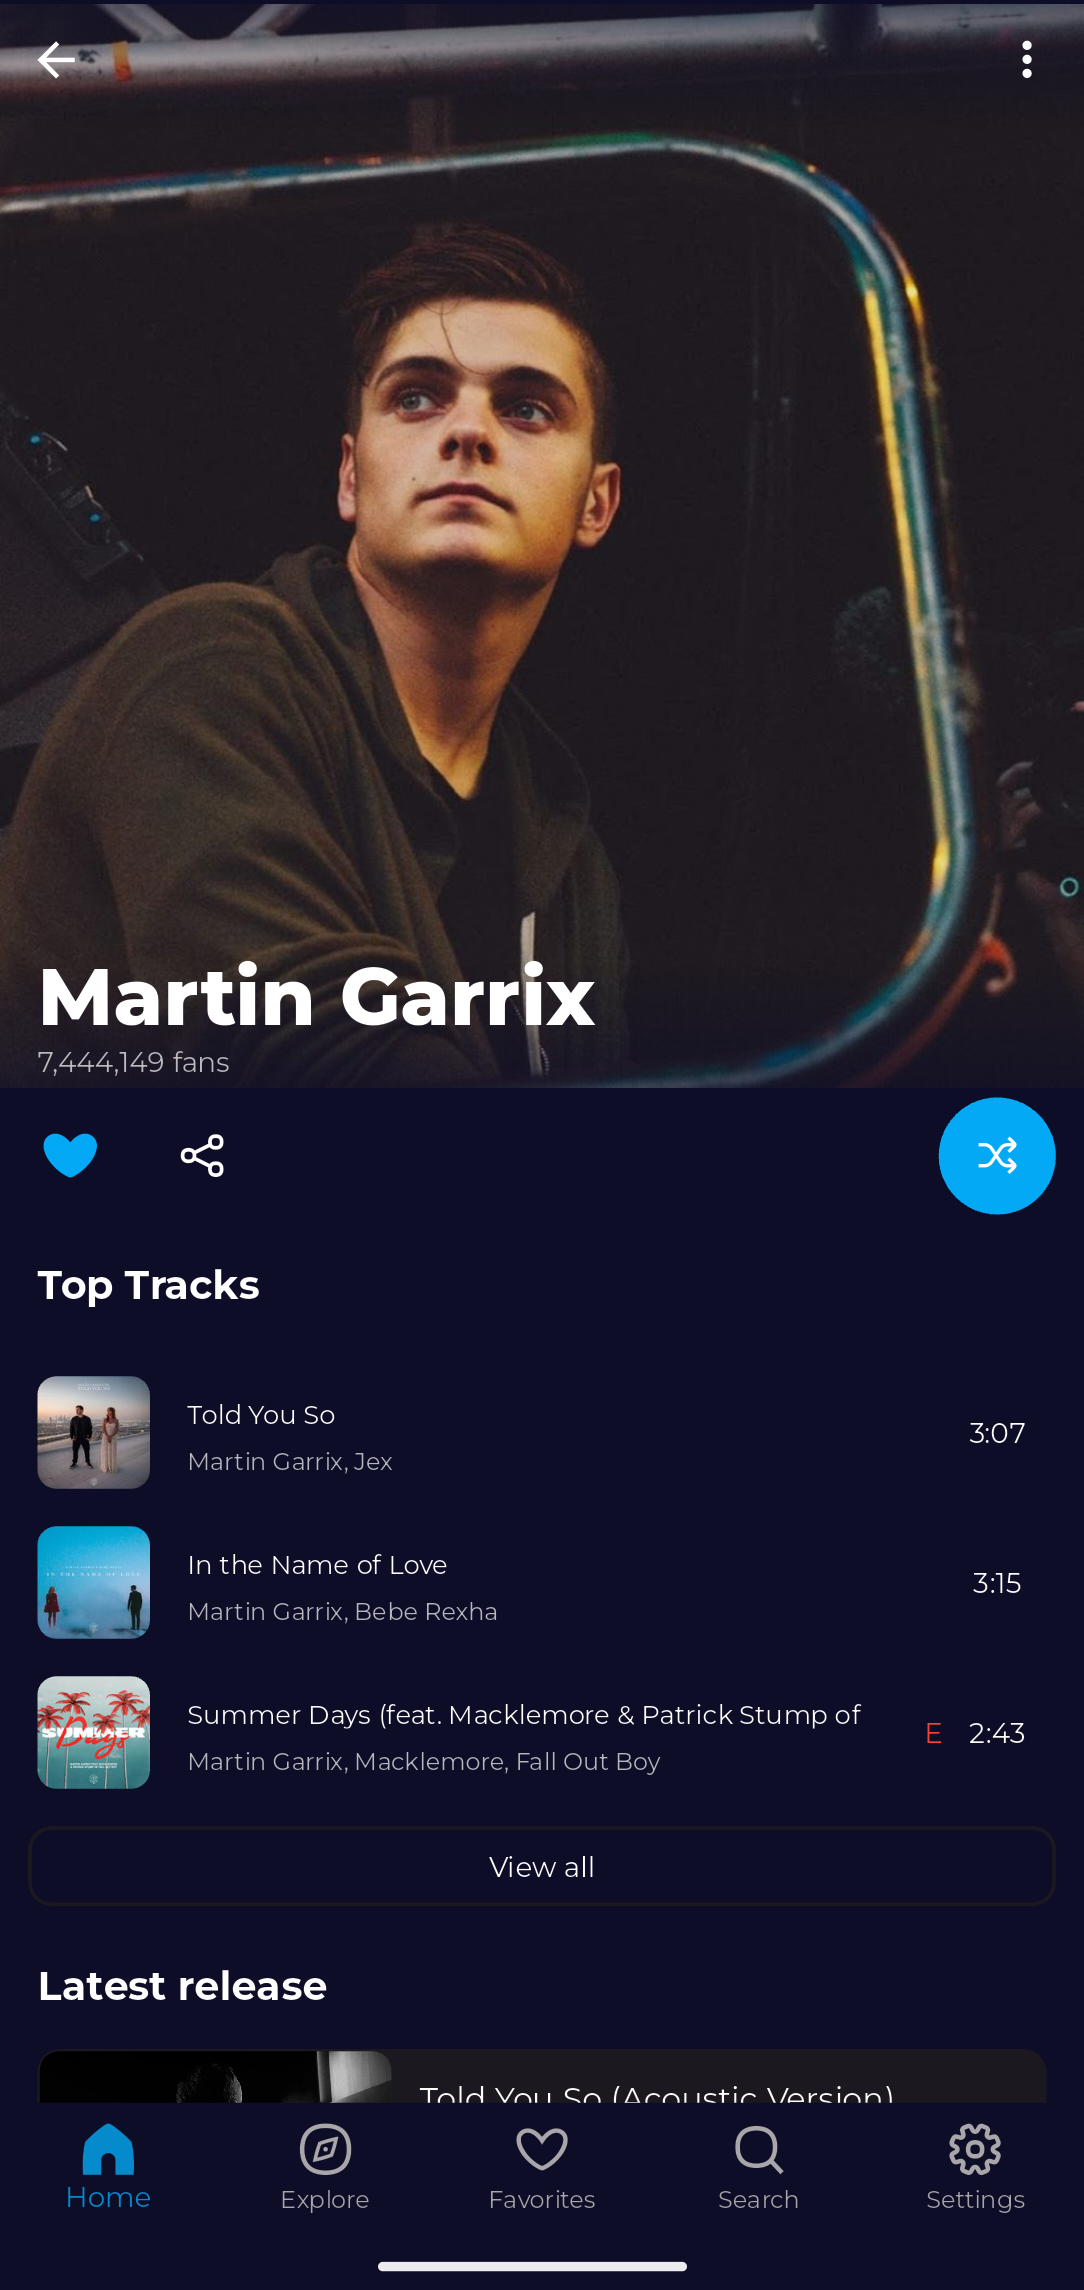
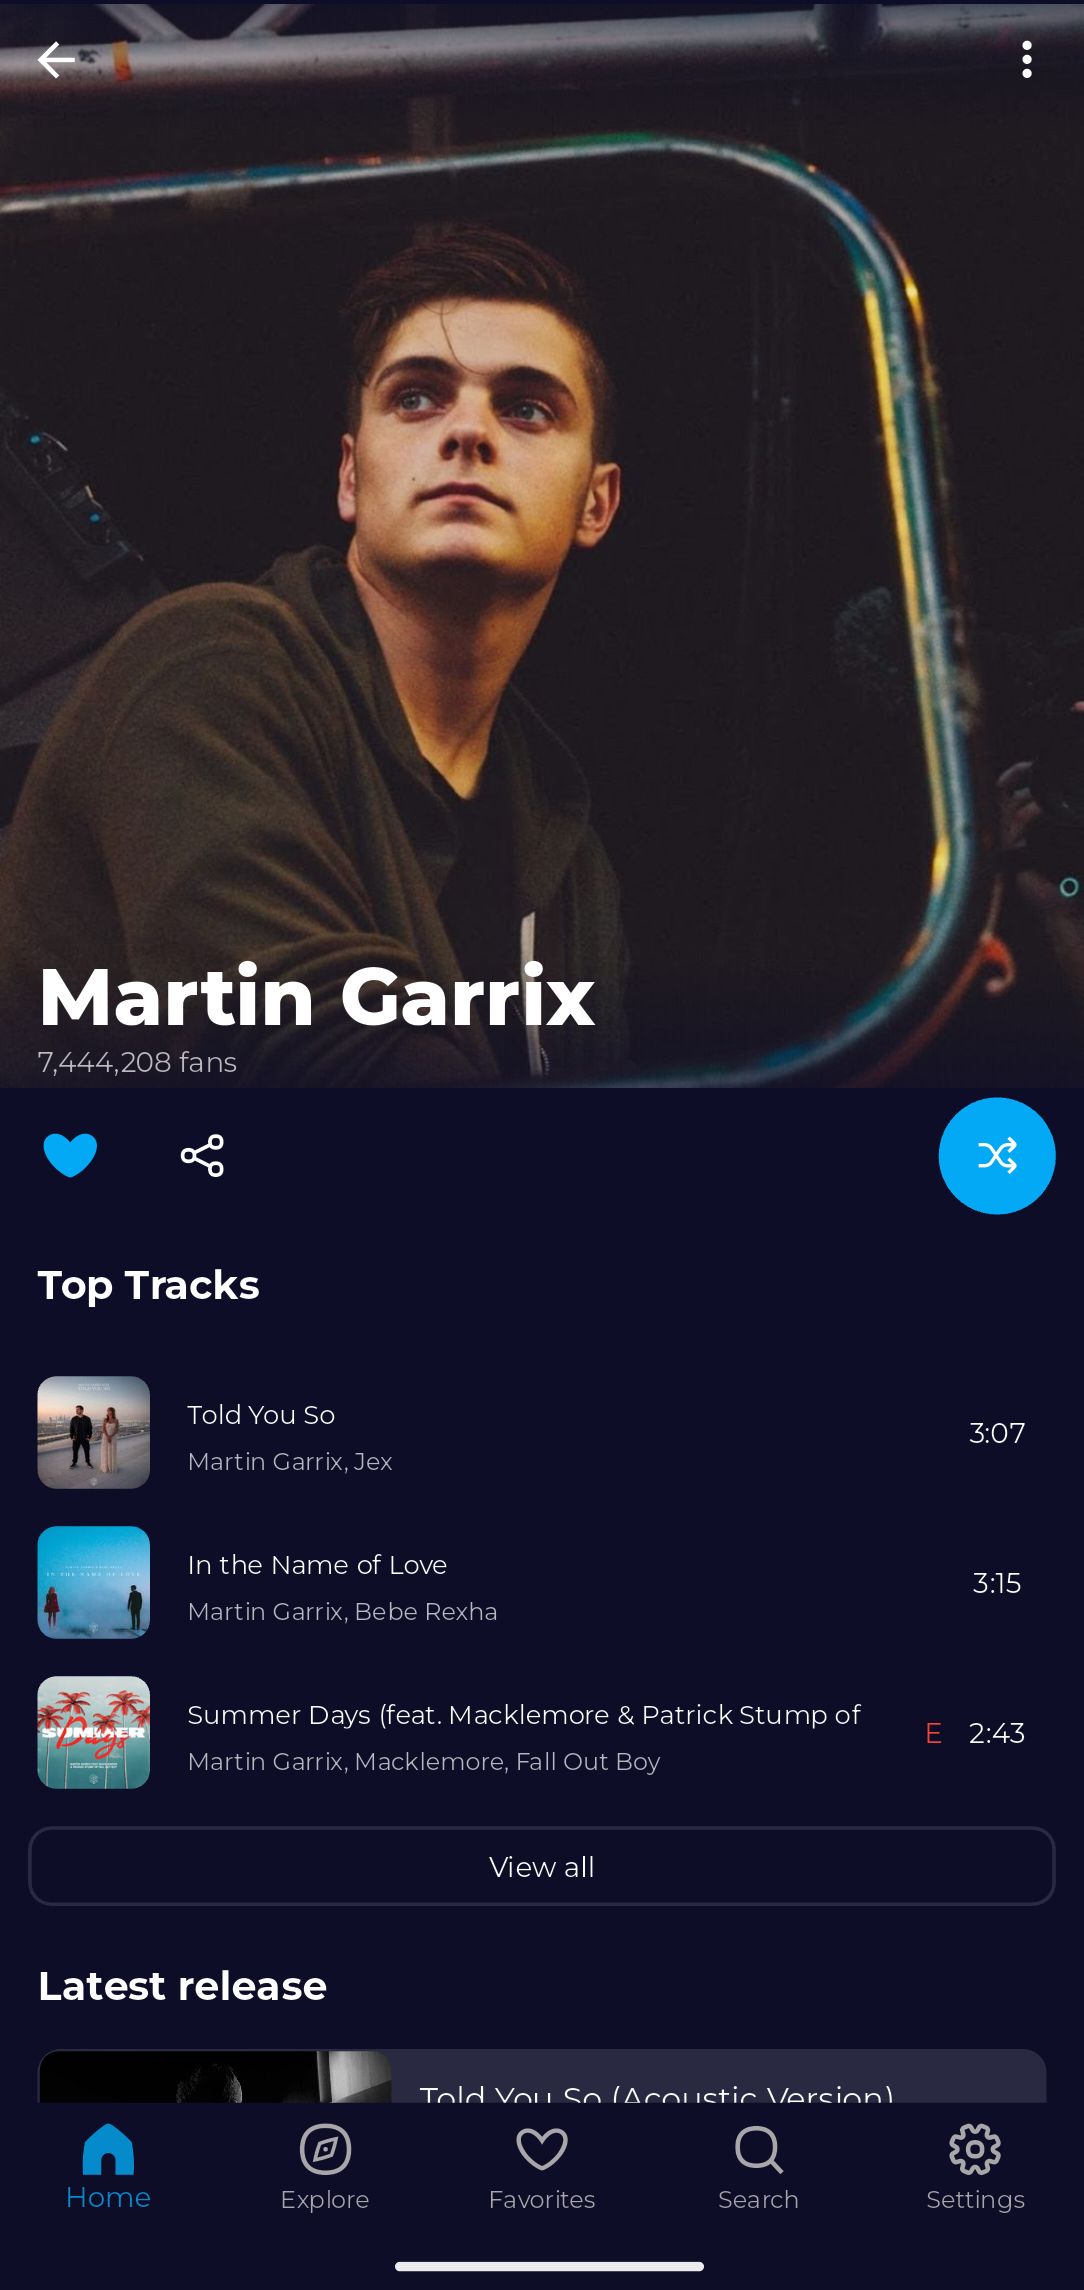
Minor color adjustments.

Changed region(s): [[0.3653, 0.8681, 0.9742, 0.9301], [0.9437, 0.8061, 0.9742, 0.8371]]

diff --git a/lib/ui/details_screens.dart b/lib/ui/details_screens.dart
@@ -1456,8 +1456,8 @@ class _ArtistDetailsState extends State<ArtistDetails> {
                                                           .withAlpha(0)),
                                                   borderRadius:
                                                       BorderRadius.circular(10),
-                                                  color: Theme.of(context)
-                                                      .hintColor),
+                                                  color: Colors.white
+                                                      .withAlpha(30)),
                                               child: InkWell(
                                                 radius: 10.0,
                                                 onTap: () {
@@ -1892,7 +1892,7 @@ class _ArtistDetailsState extends State<ArtistDetails> {
                               vertical: 8.0, horizontal: 12.0),
                           decoration: BoxDecoration(
                             border: Border.all(
-                                color: Theme.of(context).hintColor, width: 1.5),
+                                color: Colors.white.withAlpha(30), width: 1.5),
                             borderRadius: BorderRadius.circular(10.0),
                           ),
                           child: InkWell(
@@ -1943,7 +1943,7 @@ class _ArtistDetailsState extends State<ArtistDetails> {
                                                 .scaffoldBackgroundColor
                                                 .withAlpha(0)),
                                         borderRadius: BorderRadius.circular(10),
-                                        color: Theme.of(context).hintColor),
+                                        color: Colors.white.withAlpha(30)),
                                     child: InkWell(
                                       radius: 10.0,
                                       onTap: () {
